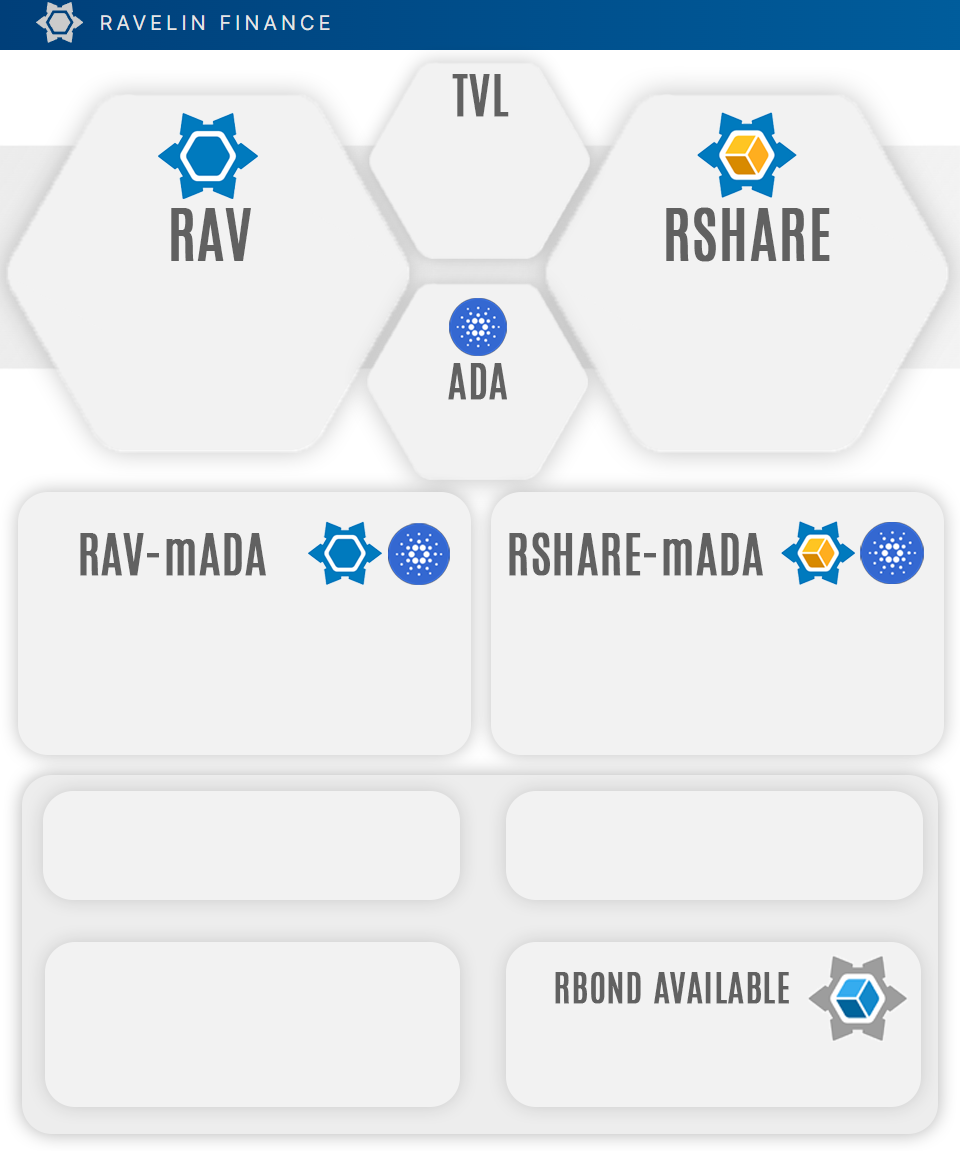
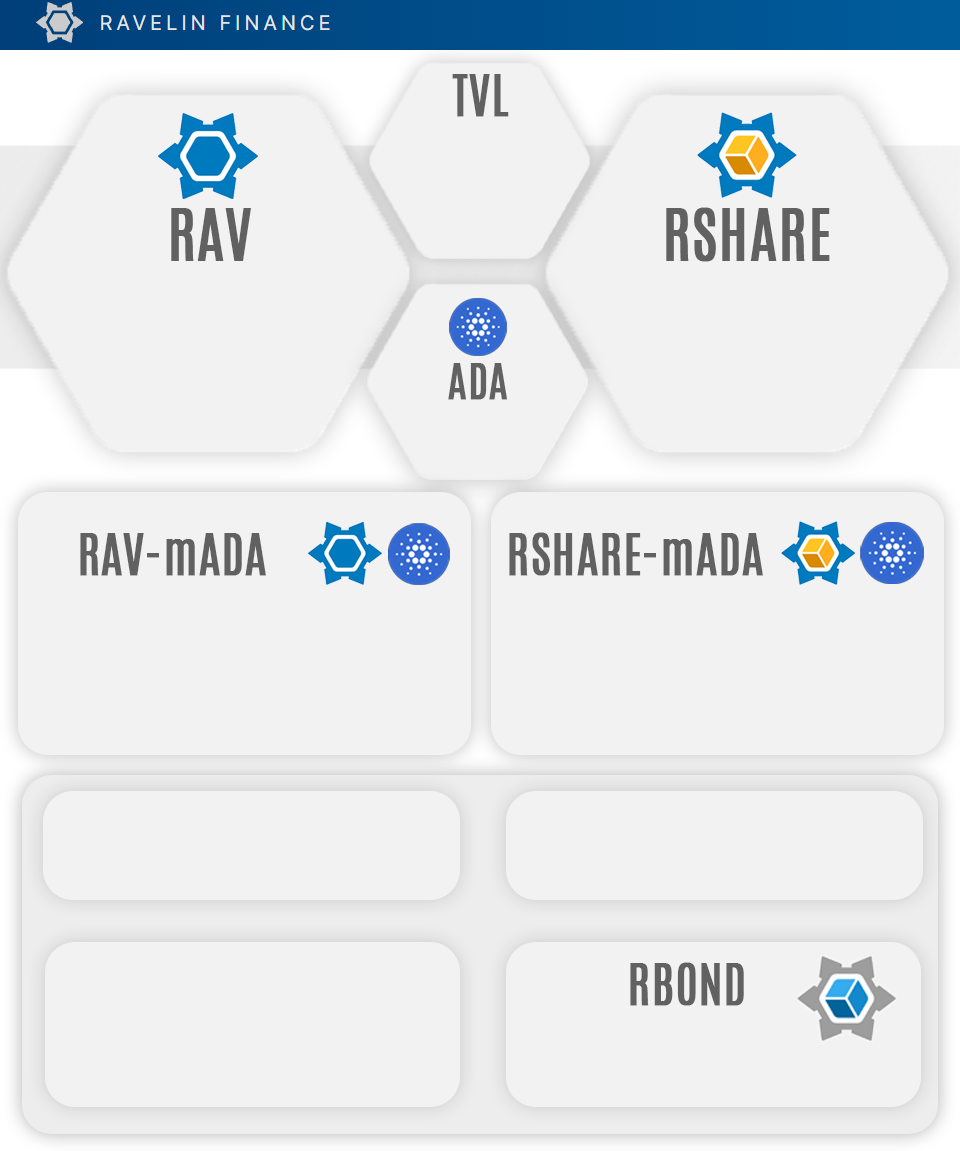
stats update

Changed region(s): [[0.5625, 0.821, 0.9375, 0.9123]]

diff --git a/tg_bot/image_creator.py b/tg_bot/image_creator.py
@@ -29,7 +29,7 @@ async def get_stats_img():
     bit_bigger_font = ImageFont.truetype(filepath_files+'/Inter/Inter-Bold.ttf', 30)
     bigger_font = ImageFont.truetype(filepath_files+'/Inter/Inter-Bold.ttf', 36)
     smaller_font = ImageFont.truetype(filepath_files+'/Inter/Inter-Regular.ttf', 20)
-    smallest_font = ImageFont.truetype(filepath_files+'/Inter/Inter-Regular.ttf', 17)
+    smallest_font = ImageFont.truetype(filepath_files+'/Inter/Inter-Regular.ttf', 22)
     price_font = ImageFont.truetype(filepath_files+'/Inter/Inter-Regular.ttf', 36)
     price_font_small = ImageFont.truetype(filepath_files+'/Inter/Inter-Regular.ttf', 26)
 
@@ -127,9 +127,11 @@ async def get_stats_img():
         image_editable.text((580,1000), rates_text_2, (106, 106, 106), font=title_font_bold)
         image_editable.text((728,1000), rates_text_3, (96, 96, 96), font=title_font)
     else:
-        rates_text = f"TWAP x{info_dict['peg']}"
-        rates_text_2 = f"Boardroom Rewards Paused"
-        image_editable.text((590,1020), rates_text, (96, 96, 96), font=price_font_small)
-        image_editable.text((540,1060), rates_text_2, (106, 106, 106), font=title_font_bold)
+        rates_text_2 = f"TWAP x{info_dict['peg']}"
+        rates_text = f"Available:  {info_dict['rbond_available']}"
+        rates_text_3 = f"Boardroom Rewards Paused"
+        image_editable.text((570,1010), rates_text, (96, 96, 96), font=price_font_small)
+        image_editable.text((570,1045), rates_text_2, (84, 0, 0), font=smallest_font)
+        image_editable.text((540,1070), rates_text_3, (146, 146, 146), font=title_font_bold)
 
     my_image.save(filepath_files+"/current_stats.png")

diff --git a/tg_bot/ravelin_functions.py b/tg_bot/ravelin_functions.py
@@ -296,11 +296,14 @@ class BlockchainData:
         else:
             expansion_rate = 0.01
 
+        rbond_available = "{:0.2f}".format(float(Web3.fromWei(self.treasury_contract.functions.getReserve().call(), "ether")))
+
         boardroom_daily_alloc = float(rav_circulating) * float(expansion_rate) * 4
         boardroom_daily_roi = "{:0.2f}".format(1 / float(boardroom_tvl) * boardroom_daily_alloc * float(real_rav) * 100)
 
         return {"rav_price": real_rav, "rshare_price": real_rshare, "ada_price": real_ada, "tvl": total_tvl,
                 "rav_lp_price": rav_lp_price, "rshare_lp_price": rshare_lp_price, "expansion": expansion_rate,
+                "rbond_available": rbond_available,
                 "rav_tvl": rav_tvl, "rshare_tvl": rshare_tvl, "boardroom_tvl": boardroom_tvl, "next_epoch": next_epoch,
                 "current_epoch": current_epoch, "rav_mada_apr": rav_mada_daily_roi, "rshare_mada_apr": rshare_mada_daily_roi,
                 "boardroom_apr": boardroom_daily_roi, "circulating_rav": rav_circulating, "circulating_rshare": rshare_circulating,
